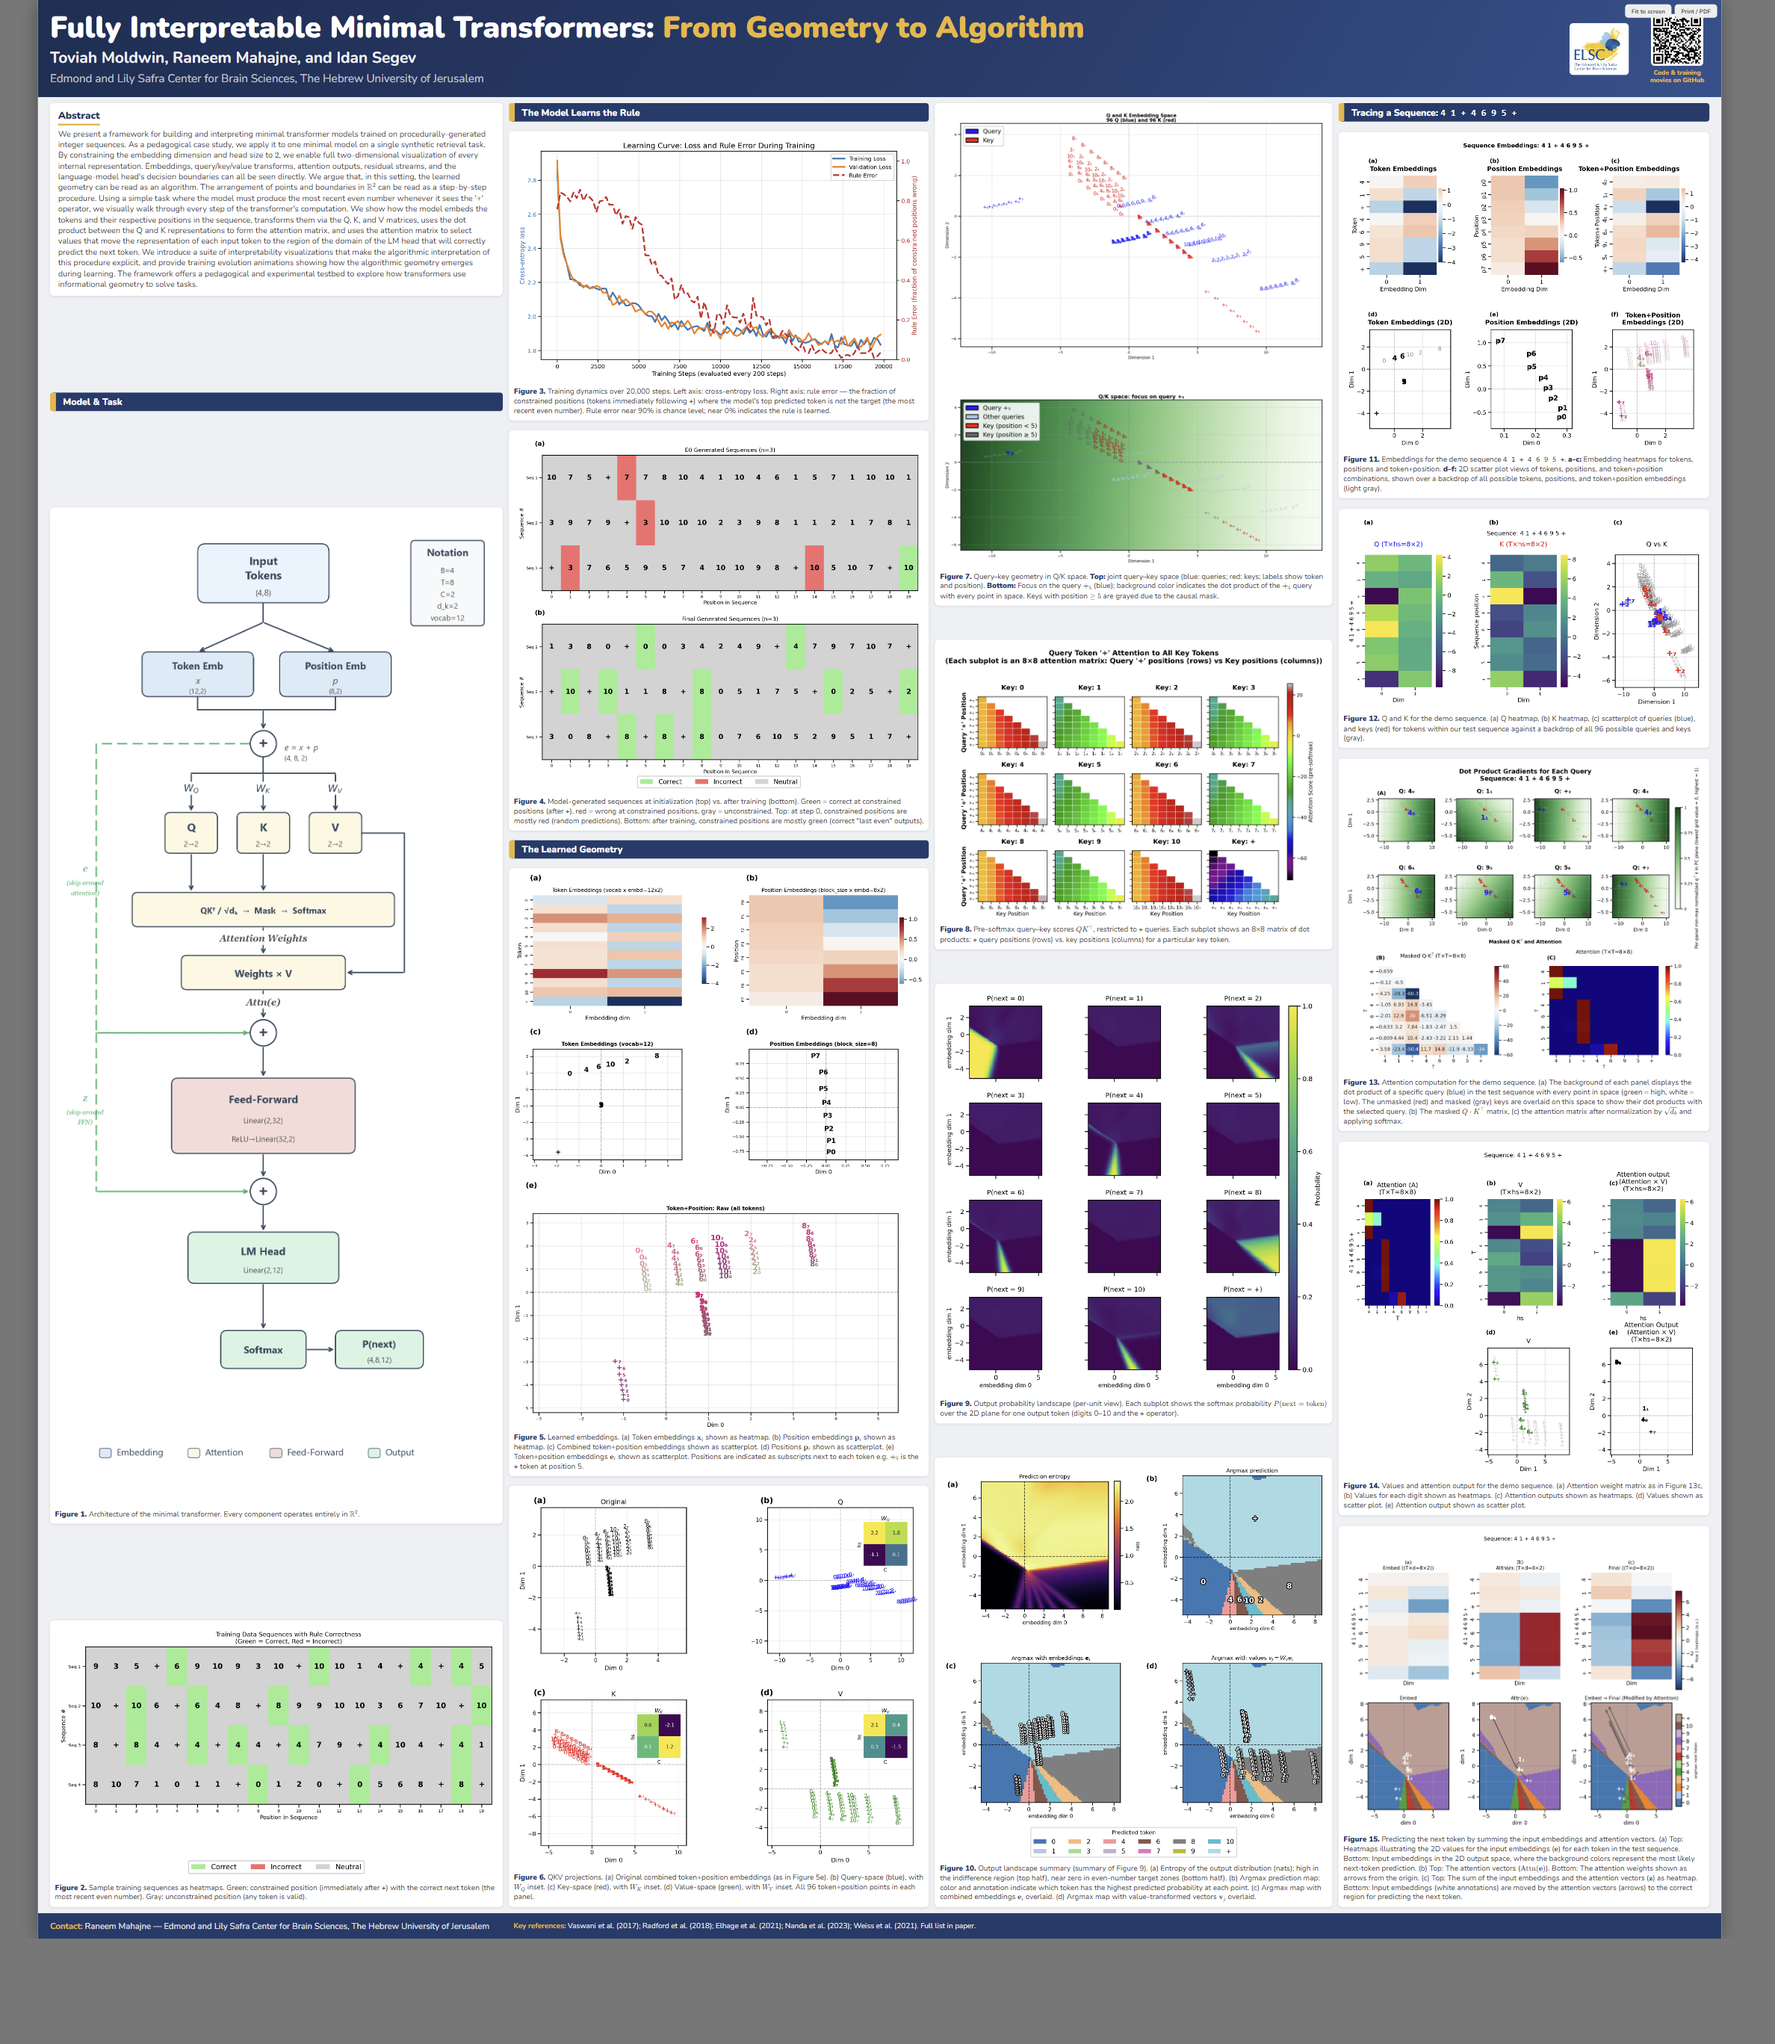
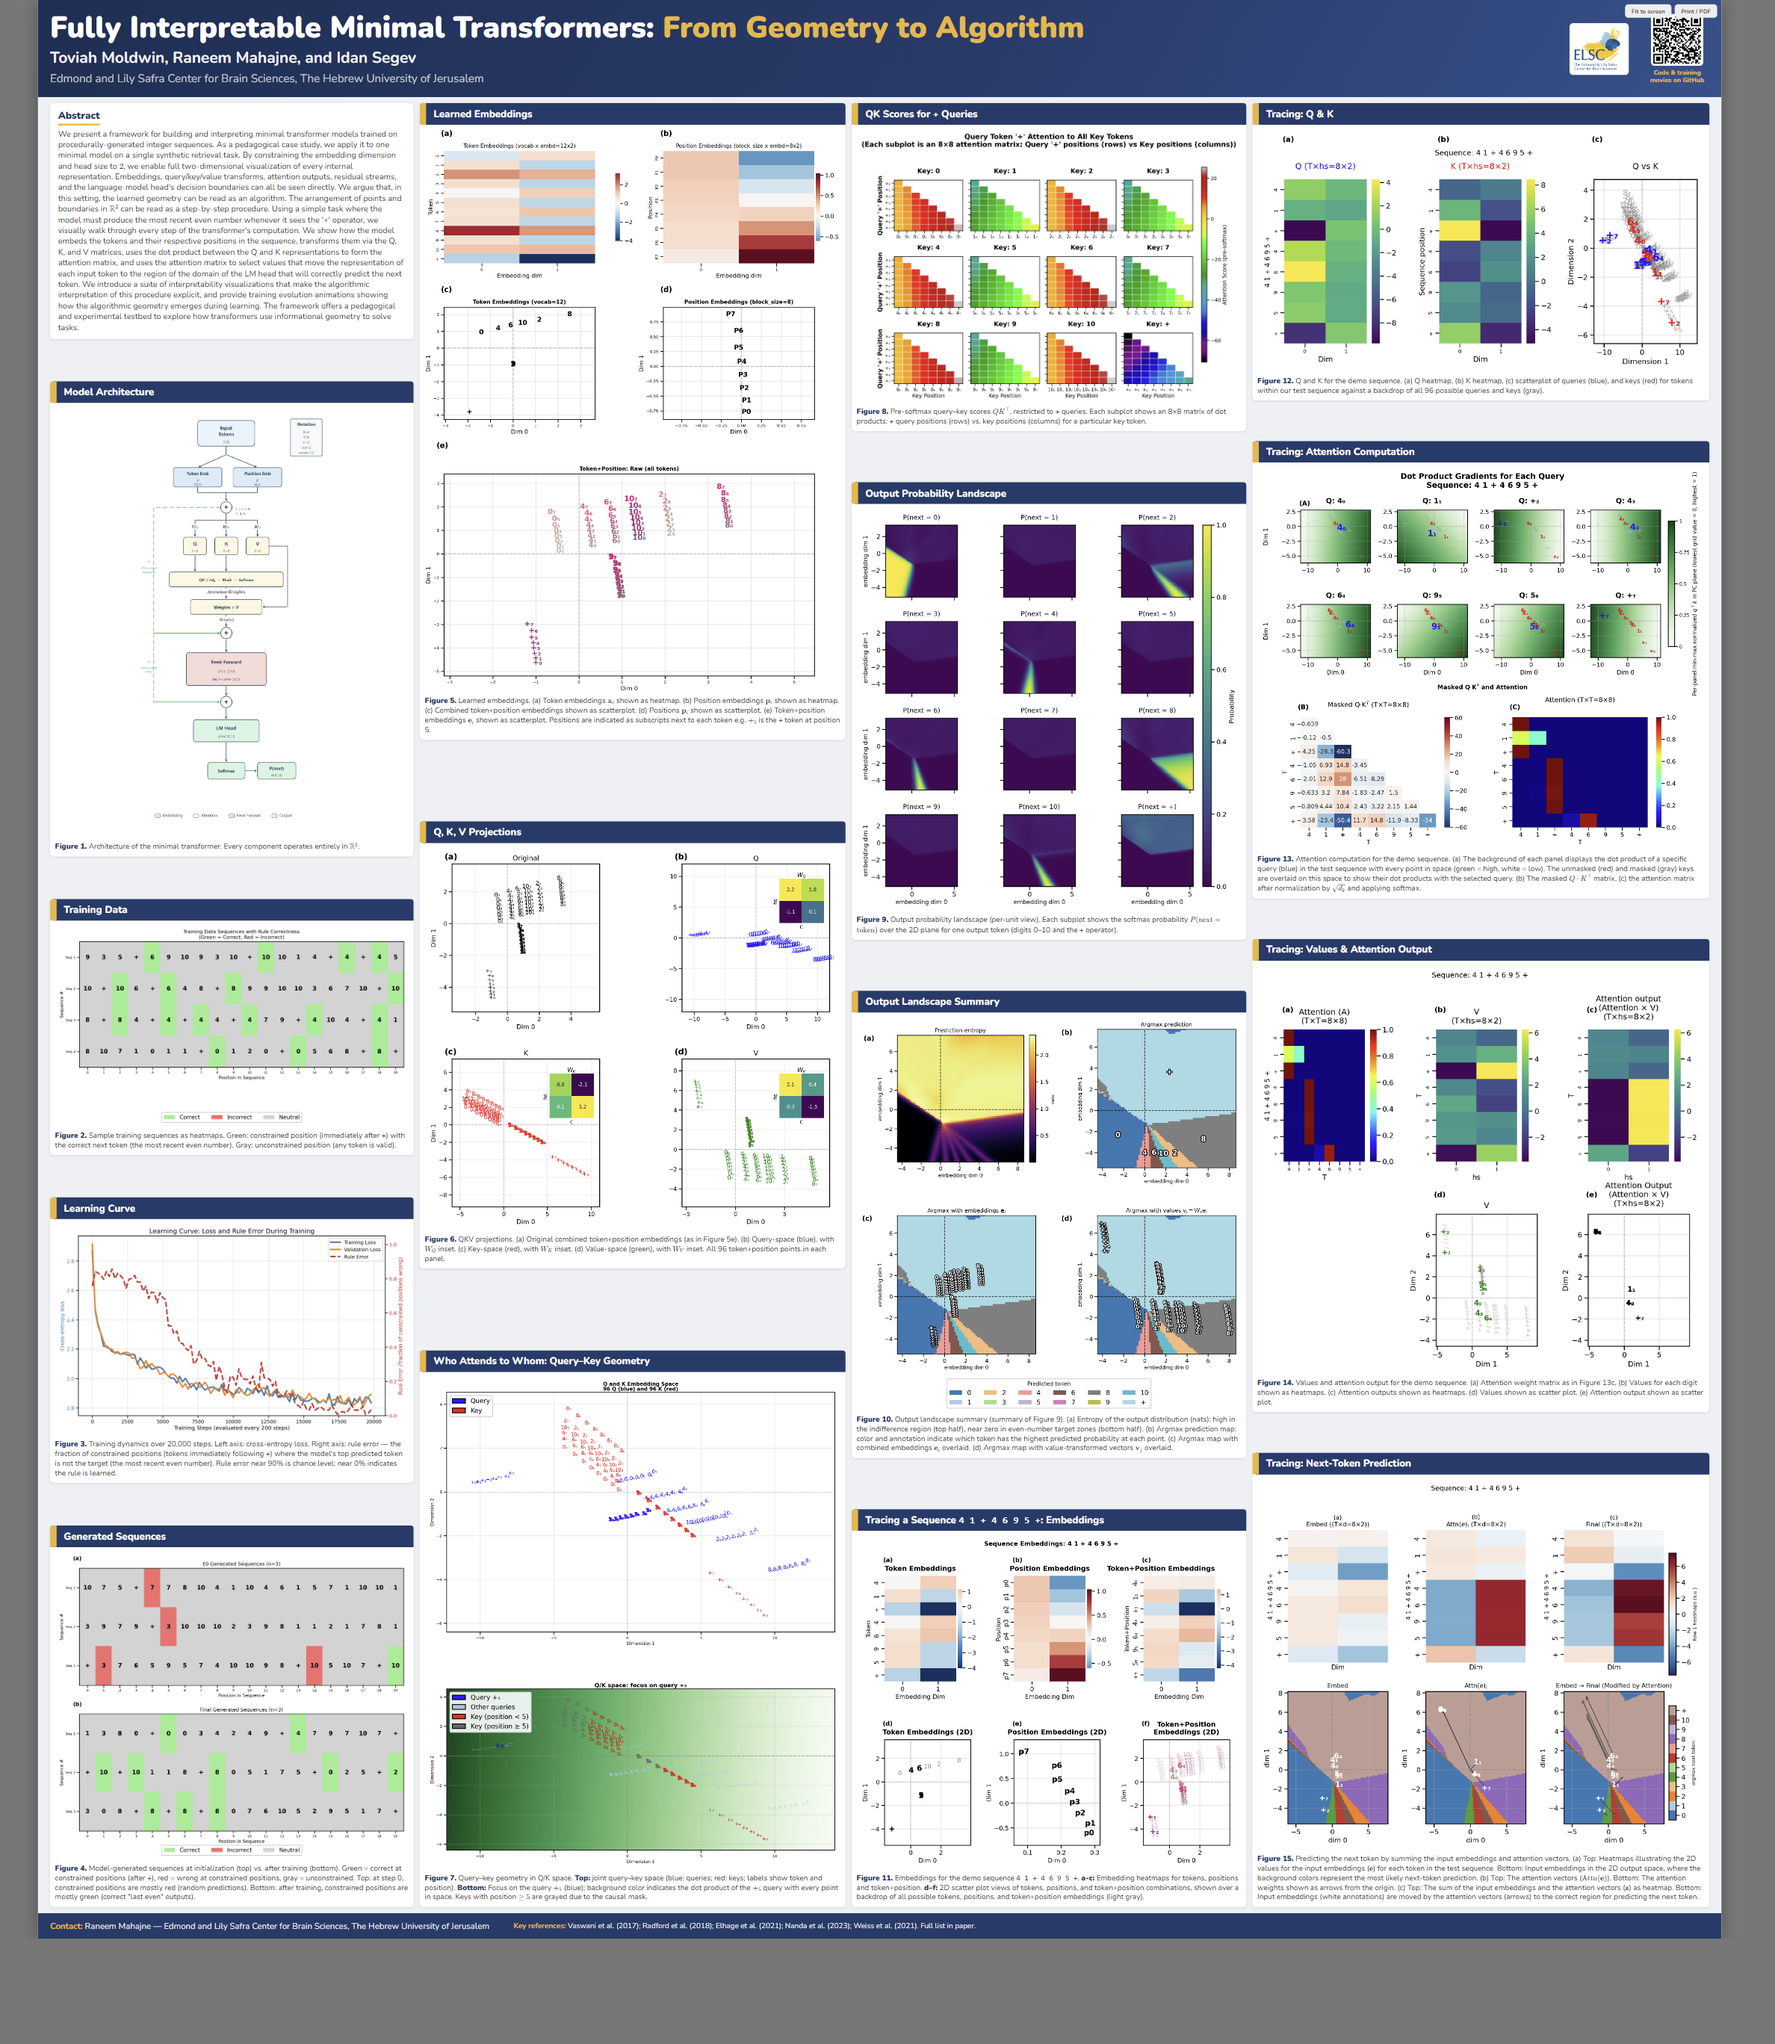
poster

diff --git a/poster/index.html b/poster/index.html
@@ -77,21 +77,21 @@ body {
   min-height: 0;
   justify-content: space-between;
 }
-.col-1 { flex: 2.21; }
-.col-2 { flex: 2.05; }
-.col-3 { flex: 1.94; }
-.col-4 { flex: 1.81; }
+.col-1 { flex: 1.87; }
+.col-2 { flex: 2.19; }
+.col-3 { flex: 2.03; }
+.col-4 { flex: 2.35; }
 
-/* ===== Section labels ===== */
-.section-label {
+/* ===== Card title bars ===== */
+.card .card-title {
   background: var(--navy);
   color: #fff;
-  font-size: 13pt;
+  font-size: 14pt;
   font-weight: 800;
-  padding: 1.5mm 3.5mm;
-  border-radius: 1.5mm;
-  border-left: 3mm solid var(--gold);
-  flex-shrink: 0;
+  padding: 2mm 3.5mm;
+  border-left: 3.5mm solid var(--gold);
+  border-radius: 1.5mm 1.5mm 0 0;
+  margin: -2.5mm -2.5mm 2mm -2.5mm;
 }
 
 /* ===== Cards: figure + caption, natural height ===== */
@@ -102,6 +102,7 @@ body {
   padding: 2.5mm;
 }
 .card img { width: 100%; height: auto; display: block; border-radius: 1mm; }
+.card.arch img { max-height: 215mm; width: auto; max-width: 100%; margin: 0 auto; }
 .card .cap { font-size: 10.5pt; color: var(--text-light); line-height: 1.3; margin-top: 1.5mm; }
 .card .cap b { color: var(--navy); font-weight: 900; }
 
@@ -164,76 +165,87 @@ body {
       <h2>Abstract</h2>
       <p>We present a framework for building and interpreting minimal transformer models trained on procedurally-generated integer sequences. As a pedagogical case study, we apply it to one minimal model on a single synthetic retrieval task. By constraining the embedding dimension and head size to $2$, we enable full two-dimensional visualization of every internal representation. Embeddings, query/key/value transforms, attention outputs, residual streams, and the language-model head's decision boundaries can all be seen directly. We argue that, in this setting, the learned geometry can be read as an algorithm. The arrangement of points and boundaries in $\mathbb{R}^2$ can be read as a step-by-step procedure. Using a simple task where the model must produce the most recent even number whenever it sees the '+' operator, we visually walk through every step of the transformer's computation. We show how the model embeds the tokens and their respective positions in the sequence, transforms them via the Q, K, and V matrices, uses the dot product between the Q and K representations to form the attention matrix, and uses the attention matrix to select values that move the representation of each input token to the region of the domain of the LM head that will correctly predict the next token. We introduce a suite of interpretability visualizations that make the algorithmic interpretation of this procedure explicit, and provide training evolution animations showing how the algorithmic geometry emerges during learning. The framework offers a pedagogical and experimental testbed to explore how transformers use informational geometry to solve tasks.</p>
     </div>
-    <div class="section-label">Model &amp; Task</div>
-    <div class="card">
+    <div class="card arch">
+      <div class="card-title">Model Architecture</div>
       <img src="fig01.png" alt="Figure 1">
       <div class="cap"><b>Figure 1.</b> Architecture of the minimal transformer. Every component operates entirely in $\mathbb{R}^2$.</div>
     </div>
     <div class="card">
+      <div class="card-title">Training Data</div>
       <img src="fig02.png" alt="Figure 2">
       <div class="cap"><b>Figure 2.</b> Sample training sequences as heatmaps. Green: constrained position (immediately after <code>+</code>) with the correct next token (the most recent even number). Gray: unconstrained position (any token is valid).</div>
     </div>
-  </div>
-
-  <div class="col col-2">
-    <div class="section-label">The Model Learns the Rule</div>
     <div class="card">
+      <div class="card-title">Learning Curve</div>
       <img src="fig03.png" alt="Figure 3">
       <div class="cap"><b>Figure 3.</b> Training dynamics over 20,000 steps. Left axis: cross-entropy loss. Right axis: rule error — the fraction of constrained positions (tokens immediately following <code>+</code>) where the model's top predicted token is not the target (the most recent even number). Rule error near 90% is chance level; near 0% indicates the rule is learned.</div>
     </div>
     <div class="card">
+      <div class="card-title">Generated Sequences</div>
       <img src="fig04.png" alt="Figure 4">
       <div class="cap"><b>Figure 4.</b> Model-generated sequences at initialization (top) vs. after training (bottom). Green = correct at constrained positions (after <code>+</code>), red = wrong at constrained positions, gray = unconstrained. Top: at step 0, constrained positions are mostly red (random predictions). Bottom: after training, constrained positions are mostly green (correct "last even" outputs).</div>
     </div>
-    <div class="section-label">The Learned Geometry</div>
+  </div>
+
+  <div class="col col-2">
     <div class="card">
+      <div class="card-title">Learned Embeddings</div>
       <img src="fig05.png" alt="Figure 5">
       <div class="cap"><b>Figure 5.</b> Learned embeddings. (a) Token embeddings $\mathbf{x}_i$ shown as heatmap. (b) Position embeddings $\mathbf{p}_i$ shown as heatmap. (c) Combined token+position embeddings shown as scatterplot. (d) Positions $\mathbf{p}_i$ shown as scatterplot. (e) Token+position embeddings $\mathbf{e}_i$ shown as scatterplot. Positions are indicated as subscripts next to each token e.g. $+_5$ is the <code>+</code> token at position 5.</div>
     </div>
     <div class="card">
+      <div class="card-title">Q, K, V Projections</div>
       <img src="fig06.png" alt="Figure 6">
       <div class="cap"><b>Figure 6.</b> QKV projections. (a) Original combined token+position embeddings (as in Figure 5e). (b) Query-space (blue), with $W_Q$ inset. (c) Key-space (red), with $W_K$ inset. (d) Value-space (green), with $W_V$ inset. All 96 token+position points in each panel.</div>
+    </div>
+    <div class="card">
+      <div class="card-title">Who Attends to Whom: Query–Key Geometry</div>
+      <img src="fig07.png" alt="Figure 7">
+      <div class="cap"><b>Figure 7.</b> Query–key geometry in Q/K space. <b>Top:</b> joint query–key space (blue: queries; red: keys; labels show token and position). <b>Bottom:</b> Focus on the query $+_5$ (blue); background color indicates the dot product of the $+_5$ query with every point in space. Keys with position $\geq 5$ are grayed due to the causal mask.</div>
     </div>
   </div>
 
   <div class="col col-3">
     <div class="card">
-      <img src="fig07.png" alt="Figure 7">
-      <div class="cap"><b>Figure 7.</b> Query–key geometry in Q/K space. <b>Top:</b> joint query–key space (blue: queries; red: keys; labels show token and position). <b>Bottom:</b> Focus on the query $+_5$ (blue); background color indicates the dot product of the $+_5$ query with every point in space. Keys with position $\geq 5$ are grayed due to the causal mask.</div>
-    </div>
-    <div class="card">
+      <div class="card-title">QK Scores for <code>+</code> Queries</div>
       <img src="fig08.png" alt="Figure 8">
       <div class="cap"><b>Figure 8.</b> Pre-softmax query–key scores $QK^\top$, restricted to <code>+</code> queries. Each subplot shows an 8×8 matrix of dot products: <code>+</code> query positions (rows) vs. key positions (columns) for a particular key token.</div>
     </div>
     <div class="card">
+      <div class="card-title">Output Probability Landscape</div>
       <img src="fig09.png" alt="Figure 9">
       <div class="cap"><b>Figure 9.</b> Output probability landscape (per-unit view). Each subplot shows the softmax probability $P(\text{next} = \text{token})$ over the 2D plane for one output token (digits 0–10 and the <code>+</code> operator).</div>
     </div>
     <div class="card">
+      <div class="card-title">Output Landscape Summary</div>
       <img src="fig10.png" alt="Figure 10">
       <div class="cap"><b>Figure 10.</b> Output landscape summary (summary of Figure 9). (a) Entropy of the output distribution (nats); high in the indifference region (top half), near zero in even-number target zones (bottom half). (b) Argmax prediction map: color and annotation indicate which token has the highest predicted probability at each point. (c) Argmax map with combined embeddings $\mathbf{e}_i$ overlaid. (d) Argmax map with value-transformed vectors $\mathbf{v}_j$ overlaid.</div>
+    </div>
+    <div class="card">
+      <div class="card-title">Tracing a Sequence <code>4 1 + 4 6 9 5 +</code>: Embeddings</div>
+      <img src="fig11.png" alt="Figure 11">
+      <div class="cap"><b>Figure 11.</b> Embeddings for the demo sequence <code>4 1 + 4 6 9 5 +</code>. <b>a-c:</b> Embedding heatmaps for tokens, positions and token+position. <b>d–f:</b> 2D scatter plot views of tokens, positions, and token+position combinations, shown over a backdrop of all possible tokens, positions, and token+position embeddings (light gray).</div>
     </div>
   </div>
 
   <div class="col col-4">
-    <div class="section-label">Tracing a Sequence: <code>4 1 + 4 6 9 5 +</code></div>
     <div class="card">
-      <img src="fig11.png" alt="Figure 11">
-      <div class="cap"><b>Figure 11.</b> Embeddings for the demo sequence <code>4 1 + 4 6 9 5 +</code>. <b>a-c:</b> Embedding heatmaps for tokens, positions and token+position. <b>d–f:</b> 2D scatter plot views of tokens, positions, and token+position combinations, shown over a backdrop of all possible tokens, positions, and token+position embeddings (light gray).</div>
-    </div>
-    <div class="card">
+      <div class="card-title">Tracing: Q &amp; K</div>
       <img src="fig12.png" alt="Figure 12">
       <div class="cap"><b>Figure 12.</b> Q and K for the demo sequence. (a) Q heatmap, (b) K heatmap, (c) scatterplot of queries (blue), and keys (red) for tokens within our test sequence against a backdrop of all 96 possible queries and keys (gray).</div>
     </div>
     <div class="card">
+      <div class="card-title">Tracing: Attention Computation</div>
       <img src="fig13.png" alt="Figure 13">
       <div class="cap"><b>Figure 13.</b> Attention computation for the demo sequence. (a) The background of each panel displays the dot product of a specific query (blue) in the test sequence with every point in space (green = high, white = low). The unmasked (red) and masked (gray) keys are overlaid on this space to show their dot products with the selected query. (b) The masked $Q \cdot K^\top$ matrix, (c) the attention matrix after normalization by $\sqrt{d_k}$ and applying softmax.</div>
     </div>
     <div class="card">
+      <div class="card-title">Tracing: Values &amp; Attention Output</div>
       <img src="fig14.png" alt="Figure 14">
       <div class="cap"><b>Figure 14.</b> Values and attention output for the demo sequence. (a) Attention weight matrix as in Figure 13c, (b) Values for each digit shown as heatmaps. (c) Attention outputs shown as heatmaps. (d) Values shown as scatter plot. (e) Attention output shown as scatter plot.</div>
     </div>
     <div class="card">
+      <div class="card-title">Tracing: Next-Token Prediction</div>
       <img src="fig15.png" alt="Figure 15">
       <div class="cap"><b>Figure 15.</b> Predicting the next token by summing the input embeddings and attention vectors. (a) Top: Heatmaps illustrating the 2D values for the input embeddings ($\mathbf{e}$) for each token in the test sequence. Bottom: Input embeddings in the 2D output space, where the background colors represent the most likely next-token prediction. (b) Top: The attention vectors ($\mathrm{Attn}(\mathbf{e})$). Bottom: The attention weights shown as arrows from the origin. (c) Top: The sum of the input embeddings and the attention vectors ($\mathbf{z}$) as heatmap. Bottom: Input embeddings (white annotations) are moved by the attention vectors (arrows) to the correct region for predicting the next token.</div>
     </div>
